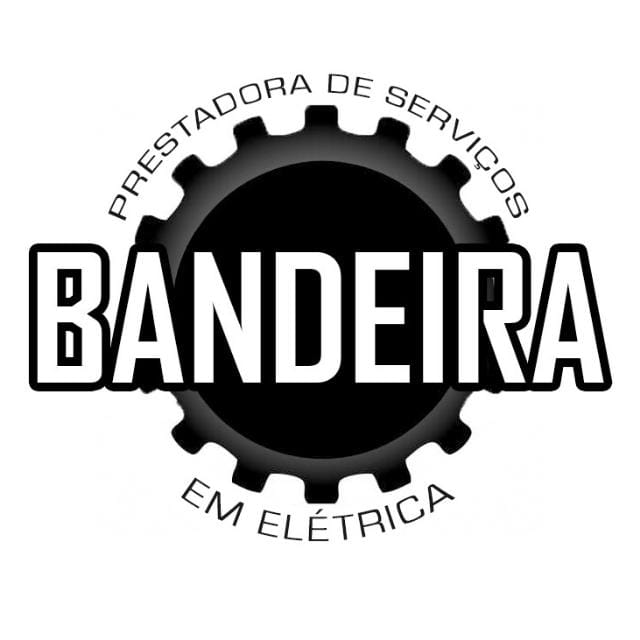
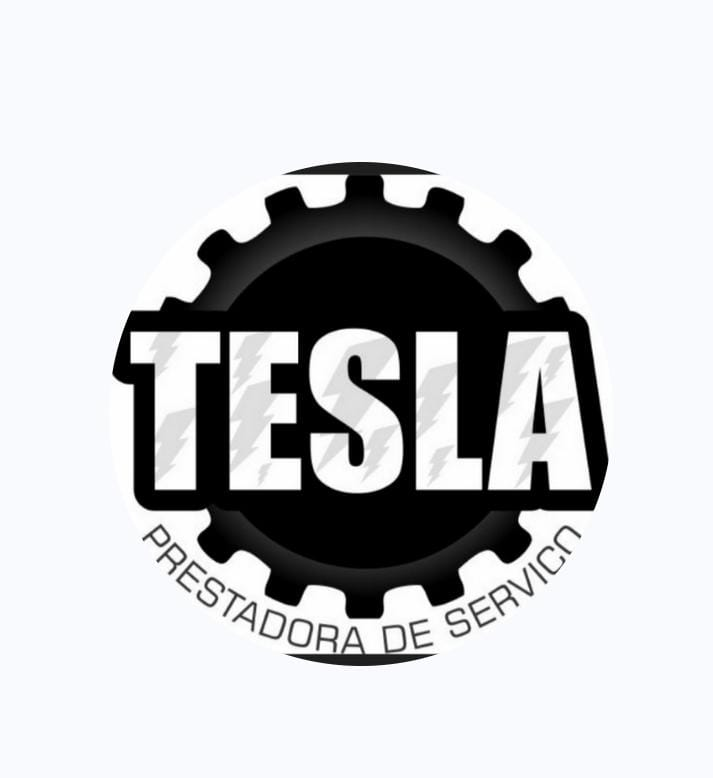
troca de nome pra tesla

Changed region(s): [[0.0312, 0.0938, 0.9688, 0.875]]

diff --git a/index.html b/index.html
@@ -12,7 +12,7 @@
   <link rel="stylesheet" href="https://cdn.jsdelivr.net/npm/swiper@11/swiper-bundle.min.css" />
 
   <link rel="stylesheet" href="styles.css">
-  <title>Bandeira Eletrisista </title>
+  <title>Tesla </title>
 </head>
 
 <body>
@@ -37,11 +37,11 @@
         <h1>Bem vindos <span></span></h1>
         <h1>a prestadora de<span></span></h1>
         <h1>serviços elétricos<span></span></h1>
-        <h1>Bandeira <span></span></h1>
+        <h1>Tesla <span></span></h1>
       </div>
 
       <div class="stacks-content">
-        <h3> 🛠 Bandeira Eletricista  </h3>
+        <h3> 🛠 Tesla  </h3>
         <h3>prestadora de serviços</h3>
         <h3>elétricos confiável e inovadora.</h3>
       </div>
@@ -49,7 +49,7 @@
 
     <div class="person-background">
       <div class="wrapper-profile-photo">
-        <img class="profile-photo" src="./src/img/logo-bandeira.png" alt="foto-logo">
+        <img class="profile-photo" src="./src/img/aaa.jpeg" alt="foto-logo">
       </div>
     </div>
   </section>
@@ -69,12 +69,11 @@
       </div>
 
       <h3>
-        <p>Eletricistos Bandeira 🔧</p>
+        <p>Tesla 🔧</p>
       </h3>
 
       <h4>
-        Introdução
-        Introdução: Bandeira Eletrotécnica é uma empresa comprometida em fornecer serviços elétricos 
+         A Tesla é uma empresa comprometida em fornecer serviços elétricos 
         de alta qualidade para residências, empresas e indústrias. Nossa equipe de profissionais altamente 
         qualificados está empenhada em garantir a segurança, eficiência e confiabilidade em cada projeto que 
         realizamos. Missão: Nossa missão é proporcionar soluções elétricas inovadoras e confiáveis, superando as 
@@ -107,13 +106,13 @@
           <div class="swiper-slide card-project">
             <div class="image-project">
               <a href="/">
-                <img src="./src/img/predial.jpg" alt="predial">
+                <img src="./src/img/medidor-de-kWh.jpg" alt="predial">
               </a>
             </div>
 
-            <span>Eletrica predial </span>
+            <span>Medidor de kWh</span>
 
-            <p>A instalação elétrica predial em edifícios envolve a distribuição segura e eficiente de energia para atender às necessidades de iluminação, equipamentos e sistemas elétricos em toda a estrutura, garantindo conformidade com as normas de segurança e eficiência energética.</p>
+            <p>A Instalação de medição individual, abrange a implantação de medidor de kWh, podendo ser monofásico, bifásico ou trifásico. Esta é composta por poste, aterramento de proteção, caixa para medidor e caixa pull  e disjuntor de proteção entre outros.</p>
 
           </div>
           <div class="swiper-slide card-project">
@@ -125,7 +124,7 @@
 
             <span>Projeto agrupado </span>
 
-            <p> Um projeto elétrico agrupado abrange a concepção e implementação de sistemas elétricos eficientes e seguros em ambientes amplos ou complexos, integrando estratégias de distribuição de energia, controle de circuitos e uso de tecnologias sustentáveis para atender às demandas específicas do local, garantindo desempenho confiável e conformidade regulatória.</p>
+            <p>Um projeto elétrico de medição agrupada, abrange a concepção e implementação de diversos medidores fornecidos pela concessionária de energia elétrica de sua  cidade, é  um sistemas elétricos eficientes e seguros em ambientes amplos ou complexos, integrando estratégias de distribuição de energia, controle de consumo em kWh e uso de tecnologias  para atender às demandas específicas do local, garantindo desempenho confiável e conformidade regulatória pela ANEEL.</p>
 
           </div>
           <div class="swiper-slide card-project">
@@ -137,9 +136,7 @@
 
             <span>Quado de enegia  </span>
 
-            <p>
-              ChatGPT
-              Um quadro de energia é um dispositivo fundamental em instalações elétricas, responsável por distribuir e controlar a energia elétrica proveniente da fonte de alimentação para os diversos circuitos dentro de uma residência, edifício ou espaço comercial, garantindo a segurança e o funcionamento adequado do sistema elétrico.</p>
+            <p>Um quadro de energia é um dispositivo fundamental em instalações elétricas, responsável por distribuir e controlar os circuitos elétricos da unidade, proveniente da fonte de alimentação para os diversos pontos dentro de uma residência, edifício ou espaço comercial, garantindo a segurança e o funcionamento adequado do sistema elétrico.</p>
 
           </div>
           <div class="swiper-slide card-project">
@@ -151,7 +148,7 @@
 
             <span>Residencial</span>
 
-            <p>A instalação elétrica residencial refere-se ao sistema de distribuição de energia elétrica dentro de uma casa, englobando fiação, dispositivos de proteção, como disjuntores e fusíveis, pontos de iluminação e tomadas. Seu projeto visa garantir segurança, eficiência e adequação às necessidades específicas de cada ambiente, proporcionando conforto e funcionalidade para os moradores.</p>
+            <p>A instalação elétrica residencial refere-se ao sistema de distribuição de energia elétrica dentro de uma casa, englobando uma excelente distribuição dos circuitos eletrônicos, e a instalação de dispositivos de proteção, como disjuntores,  DVRs e aterramento. Seu projeto visa garantir segurança, eficiência e adequação às necessidades específicas de cada ambiente, proporcionando conforto e funcionalidade para os moradores desta unidade.</p>
 
           </div>
           <div class="swiper-slide card-project">
@@ -163,7 +160,8 @@
 
             <span>Cormercial</span>
 
-            <p>A instalação elétrica comercial diz respeito ao sistema elétrico projetado para espaços comerciais, como escritórios, lojas, restaurantes e outros estabelecimentos comerciais. Ela abrange a distribuição de energia para iluminação, equipamentos elétricos, sistemas de climatização e outras necessidades comerciais, priorizando eficiência energética, segurança e conformidade com as normas regulatórias pertinentes, visando suportar as operações comerciais de forma confiável e eficaz.</p>
+            <p>A instalação elétrica comercial diz respeito ao sistema elétrico projetado para espaços comerciais, como escritórios, lojas, restaurantes e outros estabelecimentos comerciais. 
+              Ela abrange um bom dimensionamento de circuito para iluminação, equipamentos elétricos, sistemas de climatização e outras necessidades comerciais, priorizando eficiência energética, segurança e conformidade com as normas regulamentadora  (ABNT), visando suportar as operações comerciais de forma confiável e eficaz.</p>
 
           </div>
         </div>
@@ -202,8 +200,8 @@
         </div>
         <div class="contact-info">
           <span>E-mail</span>
-          <a href="mailto:claysonbandeira13@gmail.com">
-            📧 claysonbandeira13@gmail.com
+          <a href="teslapestadoradeservicos@gmail.com">
+            📧 teslapestadoradeservicos@gmail.com
           </a>
         </div>
       </div>
@@ -213,7 +211,7 @@
   <!-- Footer -->
   <section id="footer">
     <div class="container-footer">
-      <h3> © Pestadora de serviços elétricos bandeira</h3>
+      <h3> © Criado por <a href="https://bit.ly/4c7sBfg">Danilo Farias</a> </h3>
     </div>
   </section>
   <!-- End Footer -->

diff --git a/styles.css b/styles.css
@@ -738,7 +738,7 @@ body {
 }
 
 .card-project p {
-  color: #3d3d4b;
+  color: #f8f8fa;
   font-weight: bold;
   font-size: 1.1rem;
   margin: 0rem .75rem;
@@ -950,6 +950,10 @@ body {
   align-items: center;
   flex-direction: column;
   color: var(--color-white);
+}
+
+.h3 a{
+  color: #c7c5c4;
 }
 
 @media (min-width: 1840px) {
